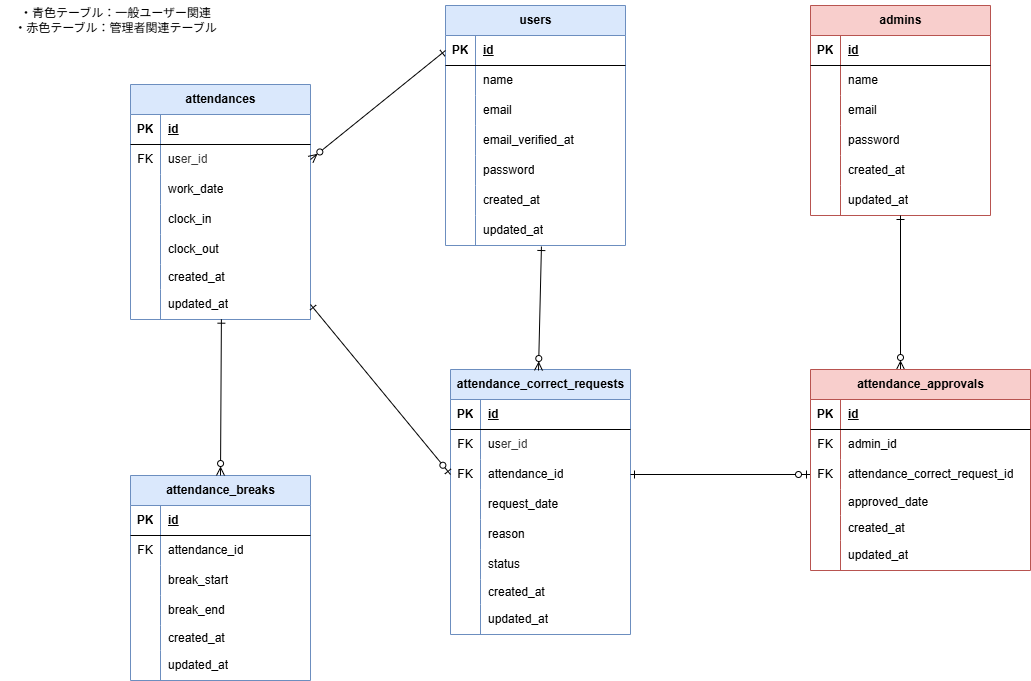
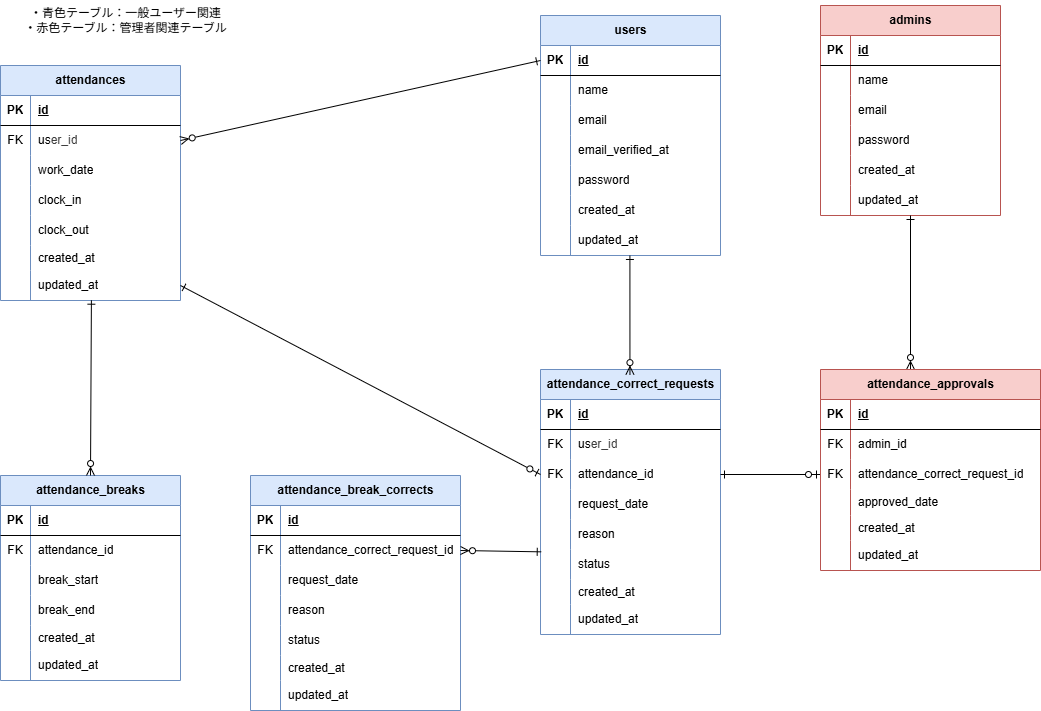
テーブル名修正とリレーション記述完了

diff --git a/README.md b/README.md
@@ -55,6 +55,7 @@
 * 2025_10_28_223811_create_attendance_breaks_table.php
 * 2025_10_28_223842_create_attendance_correct_requests_table.php
 * 2025_10_28_223906_create_attendance_approvals_table.php
+* 2025_11_27_235300_create_attendance_break_corrects_table.php
 
 **シーダーファイル**
 <!-- 作成後、その都度追加すること -->
